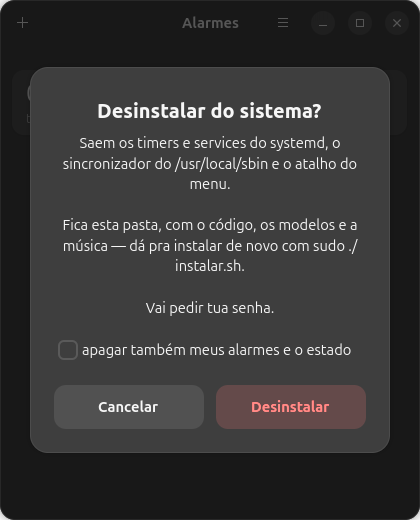
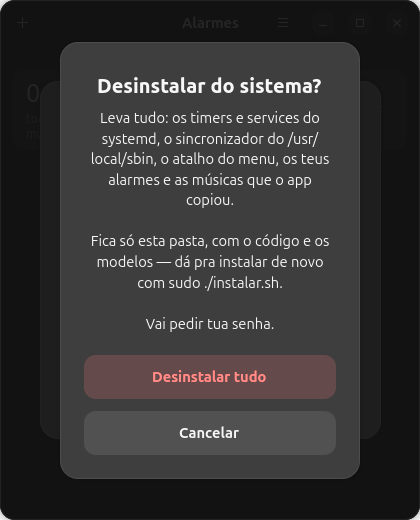
musica por alarme (copiada pra dentro), e desinstalar levando tudo
O app agora tem seletor de arquivo na criacao do alarme, e COPIA o mp3 pra
~/.local/share/wakeup/sons/<hora>.mp3. Apontar pro arquivo nao bastava: ele
vive em Downloads, e na primeira faxina o alarme tocaria em silencio. Apagar
o alarme leva a copia junto.

Quem diz qual tocar e o unit: wakeup@.service ja passava ALARME=%i, e agora o
wakeup.py procura essa hora no json. Sem musica escolhida toca o padrao; se
nem o padrao existir, a sirene faz as vezes da musica - alarme mudo nao.

E o desinstalar deixou de ter caixinha: leva units, sincronizador, atalho,
alarmes, musicas copiadas, estado, runtime do painel e __pycache__. Se e pra
desinstalar, e pra sair limpo.

diff --git a/agenda.py b/agenda.py
@@ -9,7 +9,7 @@ e o wakeup-sync, que roda como root acordado pelo wakeup-sync.path quando o
 arquivo muda - por isso criar alarme aqui nao pede senha. O "aplicando..." na
 linha e a janela de ~1s entre salvar e o timer existir.
 """
-import json, os, signal, subprocess, time
+import json, os, shutil, signal, subprocess, time
 import gi
 
 import audio_estado  # daqui do lado: devolve audio que um alarme morto deixou
@@ -22,24 +22,50 @@ BASE = os.path.dirname(os.path.realpath(__file__))
 CONFIG = os.environ.get("WAKEUP_JSON",
                         os.path.expanduser("~/.config/wakeup/alarmes.json"))
 ESTADO = f"{os.environ.get('XDG_RUNTIME_DIR', '/tmp')}/wakeup/estado.json"
+SONS = os.path.expanduser("~/.local/share/wakeup/sons")  # copia das musicas
 
 # o teste é curto de propósito: 5 checagens de 3s em vez de 720 de 5s
 TESTE = {"ALVO": "5", "INTERVALO": "3"}
 
 
 def ler():
+    """[{hora, som}], em ordem de hora. som vazio = música padrão."""
     try:
         with open(CONFIG) as f:
-            return sorted({a["hora"] for a in json.load(f)["alarmes"]})
+            alarmes = json.load(f)["alarmes"]
+        return sorted(({"hora": a["hora"], "som": a.get("som", "")}
+                       for a in alarmes if isinstance(a, dict) and a.get("hora")),
+                      key=lambda a: a["hora"])
     except (OSError, ValueError, KeyError, TypeError):
         return []
 
 
-def salvar(horas):
+def salvar(alarmes):
     os.makedirs(os.path.dirname(CONFIG), exist_ok=True)
     with open(f"{CONFIG}.tmp", "w") as f:
-        json.dump({"alarmes": [{"hora": h} for h in sorted(set(horas))]}, f, indent=2)
+        json.dump({"alarmes": sorted(alarmes, key=lambda a: a["hora"])}, f, indent=2)
     os.replace(f"{CONFIG}.tmp", CONFIG)  # o root nunca le arquivo pela metade
+
+
+def copiar_som(origem, hora):
+    """Traz a música pra dentro do app.
+
+    Apontar pro arquivo não bastava: ele costuma estar em Downloads, e na
+    primeira faxina o alarme tocaria em silêncio."""
+    os.makedirs(SONS, exist_ok=True)
+    destino = os.path.join(SONS, hora.replace(":", "") + os.path.splitext(origem)[1].lower())
+    shutil.copyfile(origem, destino)
+    return destino
+
+
+def apagar_som(alarme):
+    """Some com a cópia junto com o alarme - nada de arquivo órfão."""
+    som = alarme.get("som", "")
+    if som.startswith(SONS):
+        try:
+            os.remove(som)
+        except OSError:
+            pass
 
 
 def rodando():
@@ -129,7 +155,7 @@ class Janela(Adw.ApplicationWindow):
         vista.set_content(self.toasts)
         self.set_content(vista)
 
-        self.linhas, self.horas, self.teste = {}, ler(), None
+        self.linhas, self.alarmes, self.teste = {}, ler(), None
         self.connect("close-request", self.ao_fechar)
         self.desenhar()
         # se um alarme morreu no soco, o fone fica mudo ate alguem devolver
@@ -141,9 +167,12 @@ class Janela(Adw.ApplicationWindow):
         for linha in self.linhas.values():
             self.grupo.remove(linha)
         self.linhas = {}
-        for hora in self.horas:
+        for alarme in self.alarmes:
+            hora, som = alarme["hora"], alarme.get("som", "")
             linha = Adw.ActionRow(title=f"<span size='xx-large'>{hora}</span>",
                                   subtitle="todo dia")
+            linha.set_subtitle_lines(2)
+            linha.musica = os.path.basename(som) if som else "música padrão"
             testar = Gtk.Button(icon_name="media-playback-start-symbolic",
                                 valign=Gtk.Align.CENTER,
                                 tooltip_text="testar agora (toca de verdade)")
@@ -157,12 +186,12 @@ class Janela(Adw.ApplicationWindow):
             linha.add_suffix(apagar)
             self.grupo.add(linha)
             self.linhas[hora] = linha
-        self.pilha.set_visible_child_name("lista" if self.horas else "vazio")
+        self.pilha.set_visible_child_name("lista" if self.alarmes else "vazio")
         self.atualizar()
 
     def atualizar(self):
         for hora, linha in self.linhas.items():
-            linha.set_subtitle(f"todo dia - {estado(hora)}")
+            linha.set_subtitle(f"todo dia - {estado(hora)}\n{linha.musica}")
         return GLib.SOURCE_CONTINUE
 
     def avisar(self, texto):
@@ -173,9 +202,15 @@ class Janela(Adw.ApplicationWindow):
             lower=0, upper=23, step_increment=1, value=7))
         minuto = Adw.SpinRow(title="minuto", adjustment=Gtk.Adjustment(
             lower=0, upper=59, step_increment=5, value=0))
+        som = Gtk.Button(label="Escolher…", valign=Gtk.Align.CENTER)
+        som.caminho = ""
+        som.connect("clicked", self.escolher_som)
+        linha_som = Adw.ActionRow(title="música", subtitle="sem escolher, toca a padrão")
+        linha_som.add_suffix(som)
         grupo = Adw.PreferencesGroup()
         grupo.add(hora)
         grupo.add(minuto)
+        grupo.add(linha_som)
         dialogo = Adw.AlertDialog(heading="Novo alarme",
                                   body="Toca todo dia nesse horário.")
         dialogo.set_extra_child(grupo)
@@ -183,19 +218,46 @@ class Janela(Adw.ApplicationWindow):
         dialogo.add_response("criar", "Criar")
         dialogo.set_response_appearance("criar", Adw.ResponseAppearance.SUGGESTED)
         dialogo.set_default_response("criar")
-        dialogo.connect("response", self.criar, hora, minuto)
+        dialogo.connect("response", self.criar, hora, minuto, som)
         dialogo.present(self)
 
-    def criar(self, _dialogo, resposta, hora, minuto):
+    def escolher_som(self, botao):
+        escolha = Gtk.FileDialog(title="Música do alarme")
+        filtro = Gtk.FileFilter(name="Áudio")
+        for tipo in ("audio/mpeg", "audio/x-wav", "audio/flac", "audio/ogg",
+                     "audio/mp4", "audio/aac"):
+            filtro.add_mime_type(tipo)
+        filtros = Gio.ListStore.new(Gtk.FileFilter)
+        filtros.append(filtro)
+        escolha.set_filters(filtros)
+        escolha.set_default_filter(filtro)
+        escolha.open(self, None, lambda e, r: self.som_escolhido(e, r, botao))
+
+    def som_escolhido(self, escolha, resultado, botao):
+        try:
+            arquivo = escolha.open_finish(resultado)
+        except GLib.Error:
+            return  # cancelou
+        botao.caminho = arquivo.get_path() or ""
+        if botao.caminho:
+            botao.set_label(os.path.basename(botao.caminho))
+
+    def criar(self, _dialogo, resposta, hora, minuto, som):
         if resposta != "criar":
             return
         nova = f"{int(hora.get_value()):02d}:{int(minuto.get_value()):02d}"
-        if nova in self.horas:
-            return self.avisar(f"ja tem alarme das {nova}")
-        self.horas = sorted(self.horas + [nova])
-        salvar(self.horas)
+        if any(a["hora"] == nova for a in self.alarmes):
+            return self.avisar(f"já tem alarme das {nova}")
+        copia = ""
+        if som.caminho:
+            try:
+                copia = copiar_som(som.caminho, nova)
+            except OSError as e:
+                return self.avisar(f"não consegui copiar a música: {e}")
+        self.alarmes = self.alarmes + [{"hora": nova, "som": copia}]
+        salvar(self.alarmes)
         self.desenhar()
-        self.avisar(f"alarme das {nova} criado")
+        self.avisar(f"alarme das {nova} criado" + (" com a tua música" if copia else ""))
 
     # ---- teste: o único lugar do app que para um despertador. O alarme de
     # verdade não tem botão nenhum aqui, senão eu desarmava ele da cama.
@@ -206,7 +268,8 @@ class Janela(Adw.ApplicationWindow):
             return self.avisar("o despertador já está no ar")
         try:
             self.teste = subprocess.Popen(
-                [f"{BASE}/main.sh"], env={**os.environ, **TESTE},
+                [f"{BASE}/main.sh"],
+                env={**os.environ, **TESTE, "ALARME": hora.replace(":", "")},
                 stdout=subprocess.DEVNULL, stderr=subprocess.DEVNULL,
                 start_new_session=True)  # sessão própria: dá pra matar o grupo
         except OSError as e:
@@ -264,30 +327,27 @@ class Janela(Adw.ApplicationWindow):
     def desinstalar(self, *_):
         if rodando():
             return self.avisar("tem despertador no ar — espera ele terminar")
-        caixa = Gtk.CheckButton(label="apagar também meus alarmes e o estado")
         dialogo = Adw.AlertDialog(
             heading="Desinstalar do sistema?",
-            body="Saem os timers e services do systemd, o sincronizador do "
-                 "/usr/local/sbin e o atalho do menu.\n\n"
-                 "Fica esta pasta, com o código, os modelos e a música — dá pra "
+            body="Leva tudo: os timers e services do systemd, o sincronizador "
+                 "do /usr/local/sbin, o atalho do menu, os teus alarmes e as "
+                 "músicas que o app copiou.\n\n"
+                 "Fica só esta pasta, com o código e os modelos — dá pra "
                  "instalar de novo com sudo ./instalar.sh.\n\n"
                  "Vai pedir tua senha.")
-        dialogo.set_extra_child(caixa)
         dialogo.add_response("nao", "Cancelar")
-        dialogo.add_response("sim", "Desinstalar")
+        dialogo.add_response("sim", "Desinstalar tudo")
         dialogo.set_response_appearance("sim", Adw.ResponseAppearance.DESTRUCTIVE)
         dialogo.set_default_response("nao")
-        dialogo.connect("response", self.confirmou, caixa)
+        dialogo.connect("response", self.confirmou)
         dialogo.present(self)
 
-    def confirmou(self, _dialogo, resposta, caixa):
+    def confirmou(self, _dialogo, resposta):
         if resposta != "sim":
             return
-        cmd = ["pkexec", f"{BASE}/desinstalar.sh"]
-        if caixa.get_active():
-            cmd.append("--config")
         try:
-            proc = subprocess.Popen(cmd, stdout=subprocess.PIPE,
+            proc = subprocess.Popen(["pkexec", f"{BASE}/desinstalar.sh"],
+                                    stdout=subprocess.PIPE,
                                     stderr=subprocess.STDOUT, text=True)
         except OSError as e:
             return self.avisar(f"não consegui chamar o pkexec: {e}")
@@ -310,8 +370,11 @@ class Janela(Adw.ApplicationWindow):
         return GLib.SOURCE_REMOVE
 
     def apagar(self, _botao, hora):
-        self.horas = [h for h in self.horas if h != hora]
-        salvar(self.horas)
+        for a in self.alarmes:
+            if a["hora"] == hora:
+                apagar_som(a)
+        self.alarmes = [a for a in self.alarmes if a["hora"] != hora]
+        salvar(self.alarmes)
         self.desenhar()
         self.avisar(f"alarme das {hora} apagado")
 

diff --git a/wakeup.py b/wakeup.py
@@ -40,6 +40,29 @@ ALTO_FALANTE = "Speaker"
 PAINEL_DIR = f"{os.environ.get('XDG_RUNTIME_DIR', '/tmp')}/wakeup"
 os.makedirs(PAINEL_DIR, exist_ok=True)
 
+ALARME = os.environ.get("ALARME", "")  # a instancia do unit: "0430"
+CONFIG = os.path.expanduser("~/.config/wakeup/alarmes.json")
+
+
+def musica():
+    """O mp3 deste alarme: o que o app copiou pra ele, ou o padrao.
+
+    O app copia a musica escolhida pra dentro dele de proposito - apontar pro
+    arquivo original nao basta, que ele costuma estar em Downloads e some na
+    primeira faxina."""
+    caminho = os.environ.get("SOM", "")
+    if not caminho and ALARME:
+        try:
+            with open(CONFIG) as f:
+                caminho = next((a.get("som", "") for a in json.load(f)["alarmes"]
+                                if a.get("hora", "").replace(":", "") == ALARME), "")
+        except (OSError, ValueError, KeyError, TypeError):
+            caminho = ""
+    return caminho if caminho and os.path.exists(caminho) else f"{BASE}/sons/alarm.mp3"
+
+
+MUSICA = musica()
+
 SetLogLevel(-1)
 modelo = Model(f"{BASE}/model")
 rosto = vision.FaceLandmarker.create_from_options(vision.FaceLandmarkerOptions(
@@ -176,7 +199,7 @@ def guardiao():
             if mpv is None or mpv.poll() is not None:
                 mpv = subprocess.Popen(
                     ["mpv", "--no-video", "--no-terminal", "--loop=inf",
-                     "--volume=100", f"{BASE}/sons/alarm.mp3"],
+                     "--volume=100", MUSICA],
                     stdout=subprocess.DEVNULL, stderr=subprocess.DEVNULL)
         elif mpv:
             mpv.terminate(), mpv.wait()
@@ -283,9 +306,15 @@ def berro():
             ultimo = n
             if n >= SIRENE_A_PARTIR:
                 log(f"sirene nivel {n}")
-        if n >= SIRENE_A_PARTIR and SIRENE:
+        if tocando.is_set() and not os.path.exists(MUSICA):
+            apitar = FALHAS_MAX  # sem mp3 a sirene faz as vezes da musica
+        elif n >= SIRENE_A_PARTIR and SIRENE:
+            apitar = n
+        else:
+            apitar = 0
+        if apitar:
             try:  # trocar a saida de audio no meio do bip pode derrubar o
-                sirene.tocar(n)  # stream, e ficar sem sirene o alarme inteiro
+                sirene.tocar(apitar)  # stream, e ficar sem sirene o alarme inteiro
             except Exception as e:
                 log(f"sirene falhou ({e}), tentando de novo")
                 time.sleep(1)
@@ -348,6 +377,9 @@ def sair():
         mpv.kill()
     devolver_audio()  # devolve volume, mudo e perfil como estavam
 
+
+if not os.path.exists(MUSICA):
+    log(f"AVISO: sem mp3 em {MUSICA} - a sirene faz as vezes da musica")
 
 if audio_estado.devolver():  # sobrou de um alarme que morreu no soco
     log("devolvi o audio que um alarme anterior deixou trocado")

diff --git a/README.md b/README.md
@@ -90,11 +90,22 @@ abre pelo Xwayland. Antes do login não tem display e ele fica tentando.
 
 Os alarmes ficam num app GTK, o `agenda.py` — "Alarmes" no menu do GNOME.
 Por enquanto ele faz o essencial: criar e apagar, só o horário, tocando todo
-dia — e um ▶ em cada linha pra testar na hora.
+dia — com a música de cada um, e um ▶ em cada linha pra testar na hora.
 
 ![a lista de alarmes](docs/agenda.png)
 
 ![criando um alarme](docs/agenda-novo.png)
+
+**A música é copiada pra dentro do app**, pra
+`~/.local/share/wakeup/sons/<hora>.mp3`. Só apontar pro arquivo não bastava:
+ele quase sempre está em Downloads, e na primeira faxina o alarme tocaria em
+silêncio. Apagar o alarme leva a cópia junto. Sem escolher nada, toca o
+`sons/alarm.mp3` padrão.
+
+Quem diz pro despertador qual tocar é o próprio unit: o `wakeup@.service`
+passa `ALARME=%i` (a hora sem os dois-pontos), e o `wakeup.py` procura essa
+hora no json. Se o mp3 sumir mesmo assim, ele cai no padrão — e se nem o
+padrão existir, a sirene faz as vezes da música. Alarme mudo não existe.
 
 O ▶ dispara o despertador ali mesmo, com 5 checagens de 3s em vez de 720 de
 5s. Música, "stop", câmera e sirene, tudo de verdade — só mais curto.
@@ -111,24 +122,25 @@ sozinho. E o ▶ se recusa a começar se já tiver um despertador no ar.
 ### Desinstalar
 
 No ☰ do app tem **"Desinstalar do sistema…"**. Fica escondido no menu de
-propósito: tira tudo de uma vez.
+propósito: leva tudo de uma vez.
 
 ![a confirmação de desinstalar](docs/agenda-desinstalar.png)
 
-Saem os timers e services do systemd, o sincronizador do `/usr/local/sbin` e
-o atalho do menu. Com a caixinha marcada saem também os alarmes
-(`~/.config/wakeup`) e o estado (`~/.local/state/wakeup`).
+Saem os timers e services do systemd, o sincronizador do `/usr/local/sbin`, o
+atalho do menu, os alarmes (`~/.config/wakeup`), as músicas copiadas
+(`~/.local/share/wakeup`), o estado (`~/.local/state/wakeup`), o diretório de
+runtime do painel e o `__pycache__` daqui. Sem caixinha pra marcar: se é pra
+desinstalar, é pra sair limpo.
 
-**Fica esta pasta** — código, modelos, `.venv` e `sons/` — então dá pra voltar
-com `sudo ./instalar.sh`. Antes de sair ele para o que estiver tocando e
-devolve o áudio, se tiver ficado anotação pra trás.
+**Fica só esta pasta** — código, modelos, `.venv` e o `sons/alarm.mp3` — então
+dá pra voltar com `sudo ./instalar.sh`. Antes de sair ele para o que estiver
+tocando e devolve o áudio, se tiver ficado anotação pra trás.
 
 Pelo terminal é o mesmo script:
 
 ```
-./desinstalar.sh --listar        # o que existe hoje, sem apagar nada
-sudo ./desinstalar.sh            # tira do sistema
-sudo ./desinstalar.sh --config   # e apaga também os alarmes e o estado
+./desinstalar.sh --listar   # o que existe hoje, sem apagar nada
+sudo ./desinstalar.sh       # tira tudo
 ```
 
 O botão chama isso com `pkexec`, então pede senha. Aqui eu quis senha mesmo:
@@ -379,7 +391,8 @@ tampa (ver [Mint x Ubuntu](#mint-x-ubuntu)).
 
 ## Notas
 
-- O mp3 não está no repo. Põe o teu em `sons/alarm.mp3`.
+- O mp3 padrão não está no repo. Põe o teu em `sons/alarm.mp3`. A música de
+  cada alarme é escolhida no app, e mora em `~/.local/share/wakeup/sons/`.
 - Se a tua placa chamar o alto-falante de outro nome, `pactl list sinks`
   mostra o nome da porta; troca o `ALTO_FALANTE` no `wakeup.py`.
 - Os níveis da sirene (frequência, duração, pausa e amplitude) estão numa
